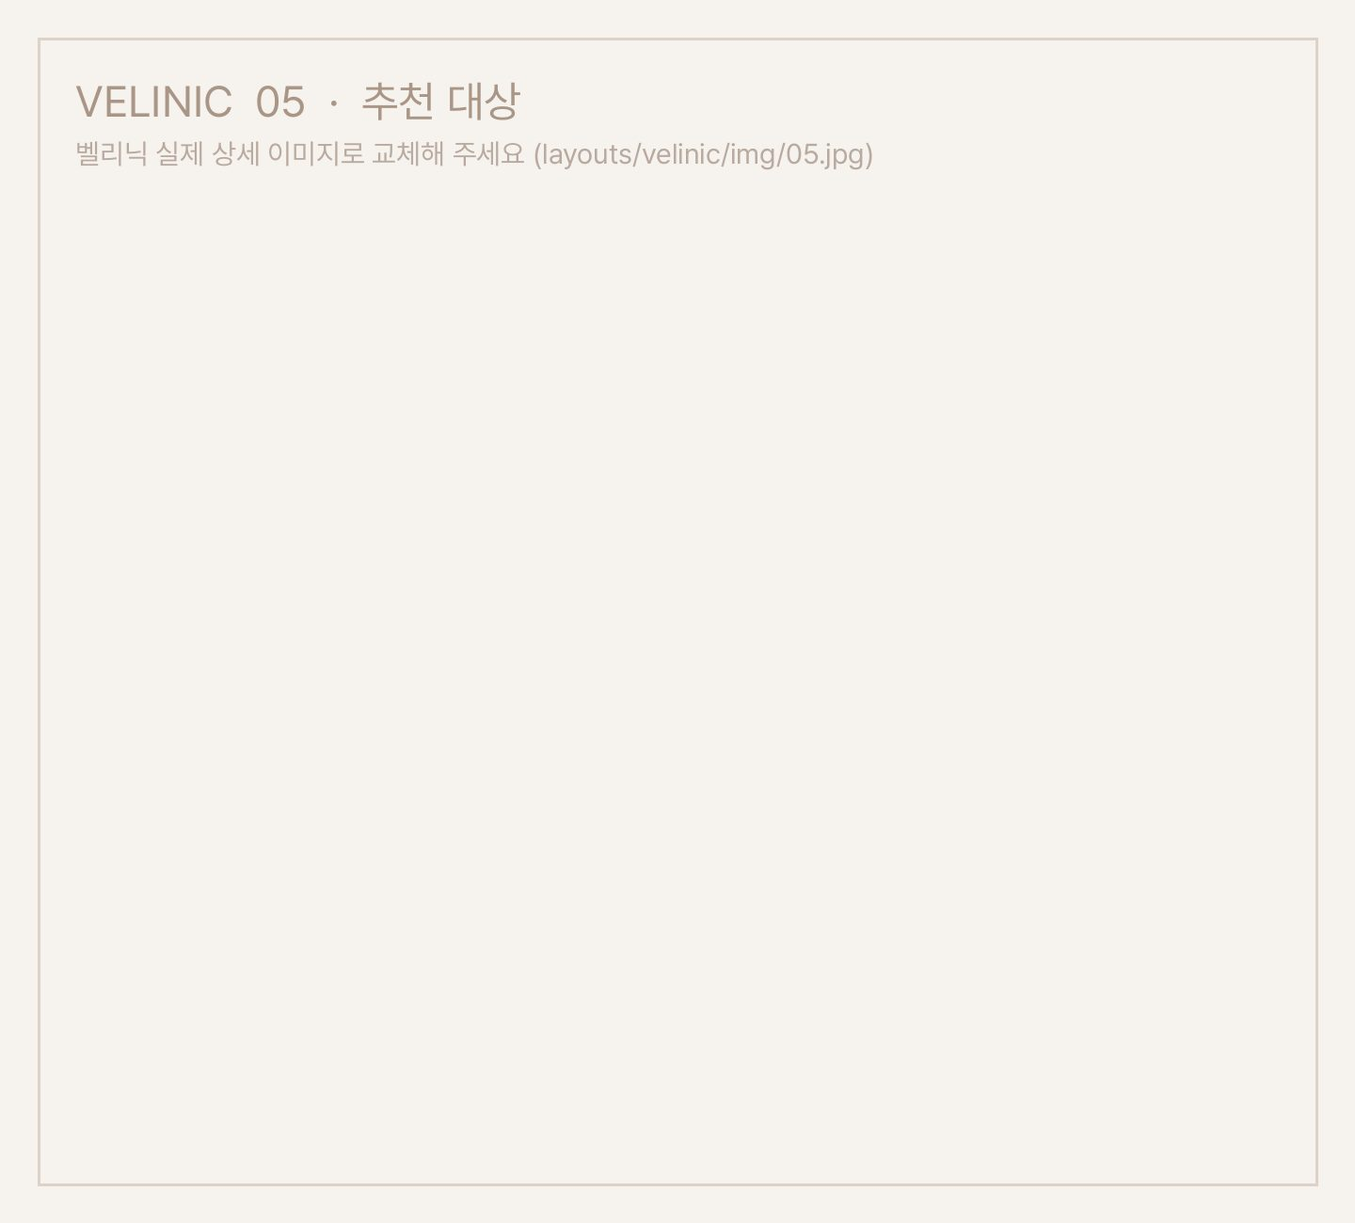
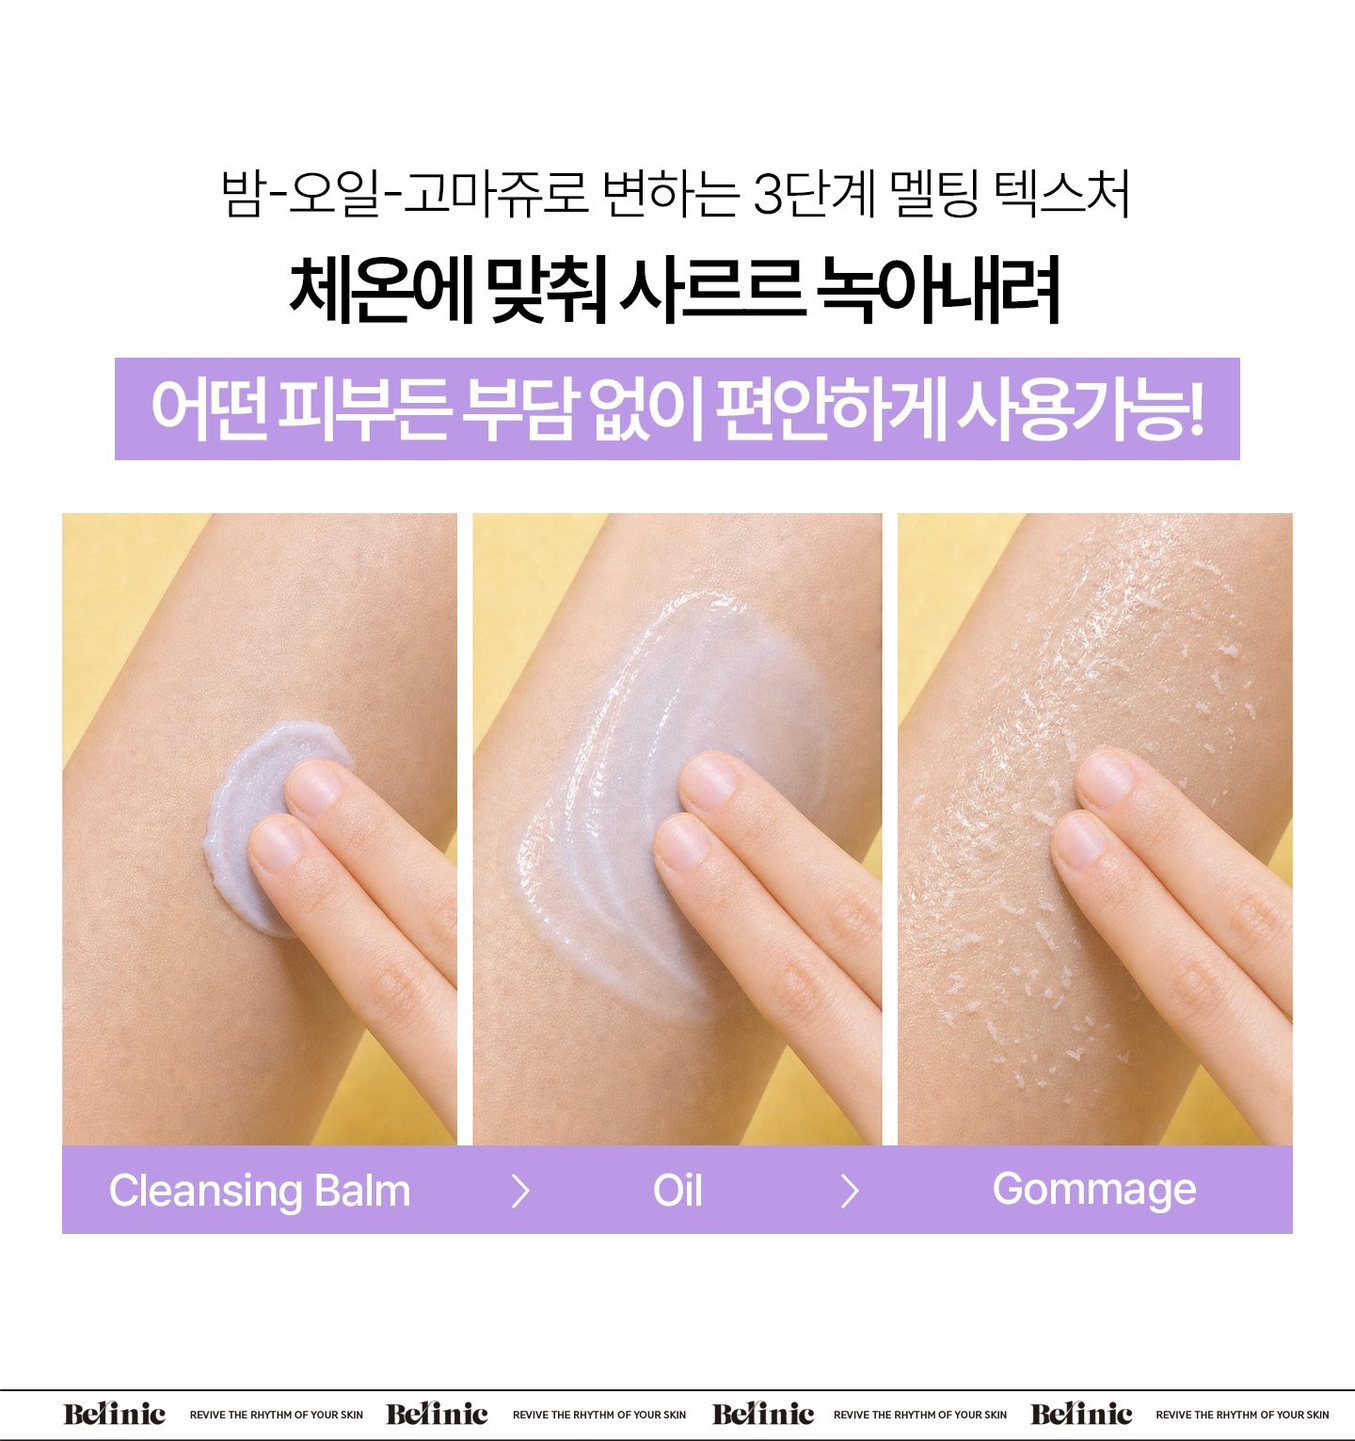
Add files via upload

diff --git a/js/generator.js b/js/generator.js
@@ -94,6 +94,7 @@
     balm: { usage: ['마른 손과 얼굴에 적당량을 덜어 줍니다.', '얼굴 전체에 부드럽게 롤링하며 메이크업과 노폐물을 녹여냅니다.', '물을 소량 묻혀 유화시킨 뒤 미온수로 깨끗하게 헹궈냅니다.'], tip: 'TIP. 동봉된 스파츌러로 덜어 사용하면 위생적으로 사용할 수 있습니다.', texture: '부드럽게 녹아드는 멜팅 밤', steps: ['밤', '오일', '에멀전'], method: '단단한 밤 제형이 피부 온도에 사르르 녹아 오일로 변하며, 물과 만나면 우유처럼 유화되어 깔끔하게 헹궈지는 클렌저입니다.', cats: ['clean', 'nourish', 'moist'], care: '클렌징 케어' },
     cleanoil: { usage: ['마른 손과 얼굴에 2~3펌프 덜어 줍니다.', '얼굴 전체에 부드럽게 롤링하며 메이크업을 녹여냅니다.', '물을 소량 묻혀 유화시킨 뒤 미온수로 헹궈냅니다.'], tip: '', texture: '가볍게 퍼지는 오일', steps: ['오일', '에멀전', '헹굼'], method: '가벼운 오일이 메이크업과 노폐물을 녹여내고, 물과 만나 유화되어 깔끔하게 헹궈지는 클렌저입니다.', cats: ['clean', 'nourish', 'moist'], care: '클렌징 케어' },
     foam: { usage: ['손에 적당량을 덜어 물과 함께 충분히 거품을 냅니다.', '얼굴 전체를 부드럽게 마사지하듯 세안합니다.', '미온수로 깨끗하게 헹궈냅니다.'], tip: '', texture: '쫀쫀한 거품', steps: ['크림', '거품', '헹굼'], method: '풍성한 거품이 피부 노폐물을 부드럽게 감싸 씻어내는 클렌저입니다.', cats: ['clean', 'moist', 'soothe'], care: '클렌징 케어' },
+    meltgommage: { usage: ['클렌징까지 마친 뒤, 본품을 적당량 덜어 물기 없는 얼굴에 펴 바릅니다.', '밤에서 오일로, 이어서 고마쥬로 변하는 동안 피부결을 따라 부드럽게 롤링합니다.', '충분히 롤링한 뒤 약간의 물을 더해 한 번 더 롤링하고, 미온수로 깨끗이 헹궈냅니다.'], tip: 'TIP. 주 1~2회 사용을 권장합니다.', texture: '체온에 사르르 녹는 멜팅 밤', steps: ['밤', '오일', '고마쥬'], method: '프랑스어로 \'지우다, 문질러 없애다\'라는 뜻에서 유래한 말로, 피부에 롤링하는 과정에서 묵은 각질을 부드럽게 정돈하는 스킨케어 방식입니다.', cats: ['smooth', 'clean', 'nourish'], care: '고마쥬 케어' },
     gommage: { usage: ['세안 후 물기를 닦은 얼굴에 적당량을 펴 바릅니다.', '1~2분 후 가볍게 문지르면 각질이 부드럽게 밀려납니다.', '미온수로 깨끗하게 헹궈냅니다.'], tip: 'TIP. 주 1~2회 사용을 권장합니다.', texture: '부드러운 젤', steps: ['젤', '롤링', '헹굼'], method: '피부에 펴 바른 뒤 문지르면 묵은 각질이 부드럽게 밀려나는 방식으로, 피부결을 매끄럽게 정돈합니다.', cats: ['smooth', 'clean', 'moist'], care: '고마쥬 케어' },
     pad: { usage: ['세안 후 패드 한 장을 꺼냅니다.', '피부결을 따라 얼굴 전체를 부드럽게 닦아냅니다.', '남은 에센스를 가볍게 두드려 흡수시킵니다.'], tip: 'TIP. 건조한 부위에 3~5분간 올려 두면 마스크처럼 사용할 수 있습니다.', texture: '에센스를 머금은 패드', steps: ['패드', '에센스', '마무리'], method: '에센스를 듬뿍 머금은 패드로 피부결을 정돈하고 촉촉함을 더하는 스킨케어입니다.', cats: ['smooth', 'moist', 'soothe'], care: '패드 케어' },
     sheet: { usage: ['세안 후 토너로 피부결을 정돈합니다.', '마스크 시트를 얼굴에 밀착시킵니다.', '15~20분 후 떼어내고 남은 에센스를 가볍게 두드려 흡수시킵니다.'], tip: '', texture: '촉촉한 에센스', steps: ['시트', '에센스', '마무리'], method: '에센스를 머금은 시트가 피부에 밀착되어 촉촉함을 채워주는 마스크입니다.', cats: ['moist', 'soothe', 'glow'], care: '마스크 케어' },
@@ -111,6 +112,7 @@
     { kw: ['클렌징 밤', '클렌징밤'], ko: '클렌징 밤', en: 'Cleansing Balm', short: 'Balm', kind: 'balm' },
     { kw: ['클렌징 오일', '클렌징오일'], ko: '클렌징 오일', en: 'Cleansing Oil', short: 'Oil', kind: 'cleanoil' },
     { kw: ['클렌징 폼', '클렌징폼', '폼 클렌저', '폼클렌저', '클렌저', '클렌징'], ko: '클렌징 폼', en: 'Cleansing Foam', short: 'Foam', kind: 'foam' },
+    { kw: ['멜팅 봄므', '멜팅봄므', '멜팅 밤', '멜팅밤', '고마쥬 밤', '고마쥬밤', '고마쥬 봄므'], ko: '멜팅 고마쥬 밤', en: 'Gommage Melting Baume', short: 'Baume', kind: 'meltgommage' },
     { kw: ['고마쥬'], ko: '고마쥬', en: 'Gommage', short: 'Gommage', kind: 'gommage' },
     { kw: ['필링 젤', '필링젤', '필링'], ko: '필링 젤', en: 'Peeling Gel', short: 'Gel', kind: 'gommage' },
     { kw: ['토너 패드', '토너패드', '패드'], ko: '토너 패드', en: 'Toner Pad', short: 'Pad', kind: 'pad' },
@@ -137,7 +139,7 @@
   }
 
   /* ---------- 영문 제품명 ---------- */
-  const EN = { '프리미엄': 'Premium', '브이-핏': 'V-Fit', '브이핏': 'V-Fit', '모델링': 'Modeling', '마스크': 'Mask', '팩': 'Pack', '크림': 'Cream', '레스큐': 'Rescue', '수분': 'Hydrating', '앰플': 'Ampoule', '세럼': 'Serum', '토너': 'Toner', '패드': 'Pad', '클렌징': 'Cleansing', '밤': 'Balm', '오일': 'Oil', '폼': 'Foam', '젤': 'Gel', '데일리': 'Daily', '시카': 'Cica', '콜라겐': 'Collagen', '히알루론': 'Hyaluronic', '펩타이드': 'Peptide', '비타': 'Vita', '골드': 'Gold', '블랙': 'Black', '아쿠아': 'Aqua', '에스테틱': 'Esthetic', '프로페셔널': 'Professional', '래디언스': 'Radiance', '솔루션': 'Solution', '쿨링': 'Cooling', '하이드레이팅': 'Hydrating', '퓨어': 'Pure', '마일드': 'Mild', '딥': 'Deep', '고마쥬': 'Gommage', '슬리핑': 'Sleeping', '워시오프': 'Wash-off', '시트': 'Sheet', '미스트': 'Mist', '에센스': 'Essence', '로션': 'Lotion', '스킨': 'Skin', '글로우': 'Glow', '모이스처': 'Moisture', '모이스트': 'Moist', '릴리프': 'Relief', '카밍': 'Calming', '밸런싱': 'Balancing', '캡슐': 'Capsule', '병풀': 'Centella', '어성초': 'Houttuynia', '녹차': 'Green Tea', '쑥': 'Mugwort', '율무': 'Coix', '세라마이드': 'Ceramide', '판테놀': 'Panthenol', '알로에': 'Aloe', '티트리': 'Tea Tree', '쌀': 'Rice', '라이스': 'Rice', '꿀': 'Honey', '허니': 'Honey', '프로폴리스': 'Propolis', '레티놀': 'Retinol', '비타민': 'Vitamin', '멀티': 'Multi', '인텐시브': 'Intensive', '부스팅': 'Boosting', '스파': 'Spa', '머드': 'Mud', '클레이': 'Clay', '핑크': 'Pink', '블루': 'Blue', '그린': 'Green', '로즈': 'Rose', '라벤더': 'Lavender', '캐모마일': 'Chamomile', '시그니처': 'Signature', '오리지널': 'Original', '플러스': 'Plus', '더블': 'Double', '트리플': 'Triple', '젤리': 'Jelly', '워터': 'Water', '버블': 'Bubble', '필링': 'Peeling', '스크럽': 'Scrub', '토닝': 'Toning', '아이': 'Eye', '바디': 'Body', '핸드': 'Hand', '립': 'Lip', '소프트': 'Soft', '스무스': 'Smooth', '엑스트라': 'Extra', '울트라': 'Ultra', '슈퍼': 'Super', '하이드로': 'Hydro', '에너지': 'Energy', '바이탈': 'Vital', '쿨': 'Cool', '젠틀': 'Gentle', '클리어': 'Clear', '클린': 'Clean', '파우더': 'Powder', '엑토인': 'Ectoin', '마데카': 'Madeca', '마데카소사이드': 'Madecassoside', '나이아신아마이드': 'Niacinamide', '스쿠알란': 'Squalane', '글루타치온': 'Glutathione', '바쿠치올': 'Bakuchiol', '인삼': 'Ginseng', '홍삼': 'Red Ginseng', '진주': 'Pearl', '카카오': 'Cacao', '클로렐라': 'Chlorella', '스피루리나': 'Spirulina', '감초': 'Licorice', '작약': 'Peony', '연꽃': 'Lotus', '동백': 'Camellia', '석류': 'Pomegranate', '레몬': 'Lemon', '자몽': 'Grapefruit', '오트': 'Oat', '귀리': 'Oat', '보습': 'Moisture', '탄력': 'Firming', '영양': 'Nourishing', '리치': 'Rich', '라이트': 'Light', '포어': 'Pore', '샷': 'Shot', '포뮬러': 'Formula', '에디션': 'Edition', '세트': 'Set', '키트': 'Kit', '리필': 'Refill', '대용량': 'Large' };
+  const EN = { '프리미엄': 'Premium', '브이-핏': 'V-Fit', '브이핏': 'V-Fit', '모델링': 'Modeling', '마스크': 'Mask', '팩': 'Pack', '크림': 'Cream', '레스큐': 'Rescue', '수분': 'Hydrating', '앰플': 'Ampoule', '세럼': 'Serum', '토너': 'Toner', '패드': 'Pad', '클렌징': 'Cleansing', '밤': 'Balm', '오일': 'Oil', '폼': 'Foam', '젤': 'Gel', '데일리': 'Daily', '시카': 'Cica', '콜라겐': 'Collagen', '히알루론': 'Hyaluronic', '펩타이드': 'Peptide', '비타': 'Vita', '골드': 'Gold', '블랙': 'Black', '아쿠아': 'Aqua', '에스테틱': 'Esthetic', '프로페셔널': 'Professional', '래디언스': 'Radiance', '솔루션': 'Solution', '쿨링': 'Cooling', '하이드레이팅': 'Hydrating', '퓨어': 'Pure', '마일드': 'Mild', '딥': 'Deep', '고마쥬': 'Gommage', '멜팅': 'Melting', '봄므': 'Baume', '슬리핑': 'Sleeping', '워시오프': 'Wash-off', '시트': 'Sheet', '미스트': 'Mist', '에센스': 'Essence', '로션': 'Lotion', '스킨': 'Skin', '글로우': 'Glow', '모이스처': 'Moisture', '모이스트': 'Moist', '릴리프': 'Relief', '카밍': 'Calming', '밸런싱': 'Balancing', '캡슐': 'Capsule', '병풀': 'Centella', '어성초': 'Houttuynia', '녹차': 'Green Tea', '쑥': 'Mugwort', '율무': 'Coix', '세라마이드': 'Ceramide', '판테놀': 'Panthenol', '알로에': 'Aloe', '티트리': 'Tea Tree', '쌀': 'Rice', '라이스': 'Rice', '꿀': 'Honey', '허니': 'Honey', '프로폴리스': 'Propolis', '레티놀': 'Retinol', '비타민': 'Vitamin', '멀티': 'Multi', '인텐시브': 'Intensive', '부스팅': 'Boosting', '스파': 'Spa', '머드': 'Mud', '클레이': 'Clay', '핑크': 'Pink', '블루': 'Blue', '그린': 'Green', '로즈': 'Rose', '라벤더': 'Lavender', '캐모마일': 'Chamomile', '시그니처': 'Signature', '오리지널': 'Original', '플러스': 'Plus', '더블': 'Double', '트리플': 'Triple', '젤리': 'Jelly', '워터': 'Water', '버블': 'Bubble', '필링': 'Peeling', '스크럽': 'Scrub', '토닝': 'Toning', '아이': 'Eye', '바디': 'Body', '핸드': 'Hand', '립': 'Lip', '소프트': 'Soft', '스무스': 'Smooth', '엑스트라': 'Extra', '울트라': 'Ultra', '슈퍼': 'Super', '하이드로': 'Hydro', '에너지': 'Energy', '바이탈': 'Vital', '쿨': 'Cool', '젠틀': 'Gentle', '클리어': 'Clear', '클린': 'Clean', '파우더': 'Powder', '엑토인': 'Ectoin', '마데카': 'Madeca', '마데카소사이드': 'Madecassoside', '나이아신아마이드': 'Niacinamide', '스쿠알란': 'Squalane', '글루타치온': 'Glutathione', '바쿠치올': 'Bakuchiol', '인삼': 'Ginseng', '홍삼': 'Red Ginseng', '진주': 'Pearl', '카카오': 'Cacao', '클로렐라': 'Chlorella', '스피루리나': 'Spirulina', '감초': 'Licorice', '작약': 'Peony', '연꽃': 'Lotus', '동백': 'Camellia', '석류': 'Pomegranate', '레몬': 'Lemon', '자몽': 'Grapefruit', '오트': 'Oat', '귀리': 'Oat', '보습': 'Moisture', '탄력': 'Firming', '영양': 'Nourishing', '리치': 'Rich', '라이트': 'Light', '포어': 'Pore', '샷': 'Shot', '포뮬러': 'Formula', '에디션': 'Edition', '세트': 'Set', '키트': 'Kit', '리필': 'Refill', '대용량': 'Large' };
   function englishName(ko) {
     const toks = String(ko || '').trim().split(/\s+/).filter(Boolean);
     if (!toks.length) return '';

diff --git a/layouts/velinic/layout.js b/layouts/velinic/layout.js
@@ -1,4 +1,4 @@
-/* 벨리닉 상세페이지 레이아웃 — 현재는 임시 배경. img 폴더의 이미지를 실제 상세 이미지로 교체하고, 사이트의 [레이아웃 편집]으로 위치를 맞춘 뒤 내보낸 파일로 이 파일을 교체하세요. */
+/* 벨리닉 상세페이지 레이아웃 — 고마쥬 멜팅 봄므 상세 이미지 기준 (좌표 단위: 1440px 폭). GIF는 문구가 모두 나온 마지막 장면을 JPG로 변환. */
 window.LAYOUTS = window.LAYOUTS || {};
 window.LAYOUTS['velinic'] = {
  "base": "layouts/velinic/",
@@ -6,47 +6,43 @@ window.LAYOUTS['velinic'] = {
  "images": [
   {
    "src": "img/01.jpg",
-   "h": 1800
+   "h": 9948
   },
   {
    "src": "img/02.jpg",
-   "h": 1400
+   "h": 1832
   },
   {
    "src": "img/03.jpg",
-   "h": 2400
+   "h": 1918
   },
   {
    "src": "img/04.jpg",
-   "h": 1400
+   "h": 1924
   },
   {
    "src": "img/05.jpg",
-   "h": 1300
+   "h": 1531
   },
   {
    "src": "img/06.jpg",
-   "h": 2600
+   "h": 1957
   },
   {
    "src": "img/07.jpg",
-   "h": 1400
+   "h": 10302
   },
   {
    "src": "img/08.jpg",
-   "h": 1200
+   "h": 6220
   },
   {
    "src": "img/09.jpg",
-   "h": 1200
+   "h": 1966
   },
   {
    "src": "img/10.jpg",
-   "h": 1900
-  },
-  {
-   "src": "img/11.jpg",
-   "h": 1600
+   "h": 2314
   }
  ],
  "blocks": [
@@ -54,90 +50,59 @@ window.LAYOUTS['velinic'] = {
    "id": "intro",
    "type": "intro",
    "x": 144,
-   "y": 700,
+   "y": 250,
    "w": 1152
   },
   {
    "id": "meth",
    "type": "method",
    "x": 144,
-   "y": 2100,
+   "y": 11248,
    "w": 1152
   },
   {
    "id": "diffH",
    "type": "diffHeader",
    "x": 144,
-   "y": 3350,
+   "y": 11960,
    "w": 1152
   },
   {
    "id": "f0",
    "type": "feature",
    "i": 0,
-   "x": 144,
-   "y": 3700,
-   "w": 1152
+   "x": 700,
+   "y": 14398,
+   "w": 660
   },
   {
    "id": "f1",
    "type": "feature",
    "i": 1,
-   "x": 144,
-   "y": 4250,
-   "w": 1152
+   "x": 700,
+   "y": 14698,
+   "w": 660
   },
   {
    "id": "f2",
    "type": "feature",
    "i": 2,
-   "x": 144,
-   "y": 4800,
-   "w": 1152
+   "x": 700,
+   "y": 15078,
+   "w": 660
   },
   {
    "id": "tex",
    "type": "texture",
    "x": 144,
-   "y": 5900,
+   "y": 15762,
    "w": 1152
-  },
-  {
-   "id": "recH",
-   "type": "recHeader",
-   "x": 144,
-   "y": 7150,
-   "w": 1152
-  },
-  {
-   "id": "r0",
-   "type": "rec",
-   "i": 0,
-   "x": 100,
-   "y": 7450,
-   "w": 400
-  },
-  {
-   "id": "r1",
-   "type": "rec",
-   "i": 1,
-   "x": 520,
-   "y": 7450,
-   "w": 400
-  },
-  {
-   "id": "r2",
-   "type": "rec",
-   "i": 2,
-   "x": 940,
-   "y": 7450,
-   "w": 400
   },
   {
    "id": "ingH",
    "type": "ingHeader",
    "x": 144,
-   "y": 8450,
+   "y": 17373,
    "w": 1152
   },
   {
@@ -145,7 +110,7 @@ window.LAYOUTS['velinic'] = {
    "type": "ing",
    "i": 0,
    "x": 144,
-   "y": 8850,
+   "y": 20010,
    "w": 1152
   },
   {
@@ -153,7 +118,7 @@ window.LAYOUTS['velinic'] = {
    "type": "ing",
    "i": 1,
    "x": 144,
-   "y": 9450,
+   "y": 25140,
    "w": 1152
   },
   {
@@ -161,49 +126,73 @@ window.LAYOUTS['velinic'] = {
    "type": "ing",
    "i": 2,
    "x": 144,
-   "y": 10050,
+   "y": 27970,
    "w": 1152
   },
   {
    "id": "ingN",
    "type": "ingNote",
    "x": 144,
-   "y": 10650,
-   "w": 1152
-  },
-  {
-   "id": "clin",
-   "type": "clinical",
-   "x": 144,
-   "y": 11250,
-   "w": 1152
-  },
-  {
-   "id": "irr",
-   "type": "irritation",
-   "x": 144,
-   "y": 12600,
+   "y": 29230,
    "w": 1152
   },
   {
    "id": "sum",
    "type": "summary",
    "x": 144,
-   "y": 13800,
+   "y": 32412,
    "w": 1152
+  },
+  {
+   "id": "irr",
+   "type": "irritation",
+   "x": 144,
+   "y": 34362,
+   "w": 1152
+  },
+  {
+   "id": "recH",
+   "type": "recHeader",
+   "x": 700,
+   "y": 36052,
+   "w": 660
+  },
+  {
+   "id": "r0",
+   "type": "rec",
+   "i": 0,
+   "x": 700,
+   "y": 36372,
+   "w": 660
+  },
+  {
+   "id": "r1",
+   "type": "rec",
+   "i": 1,
+   "x": 700,
+   "y": 36672,
+   "w": 660
+  },
+  {
+   "id": "r2",
+   "type": "rec",
+   "i": 2,
+   "x": 700,
+   "y": 36952,
+   "w": 660
   },
   {
    "id": "how",
    "type": "howto",
    "x": 144,
-   "y": 15000,
+   "y": 38068,
    "w": 1152
   },
   {
    "id": "info",
    "type": "info",
    "x": 144,
-   "y": 16800,
+   "y": 39748,
    "w": 1152
   }
  ]

diff --git a/js/ingredients.js b/js/ingredients.js
@@ -170,6 +170,14 @@
 
   const BASE = /(정제수|^물$|글라이콜$|다이올$|에틸헥실글리세린|카보머|트로메타민|이디티에이|향료|페녹시에탄올|검$|데하이드로아세틱애씨드|마그네슘옥사이드|파이로포스페이트|설페이트$|벤조에이트|솔베이트|시트릭애씨드|소듐하이드록사이드|포타슘하이드록사이드|파라벤|메티콘|실록세인|아크릴레이트|폴리소르베이트|피이지|PEG|스테아레이트|세테아릴|세틸알코올|스테아릴알코올|글리세릴|소르비탄|트라이글리세라이드|카프릴|이소|하이드로제네이티드|알코올$|에탄올|실리카|티타늄디옥사이드|징크옥사이드|마이카|탤크|다이소듐|트라이에탄올아민|코폴리머|크로스폴리머|암모늄|클로라이드$|^CI\s?\d+|색소|레시틴|헥실|프로필|부틸|메틸|에틸|다이메틸|나일론|셀룰로오스|글루코사이드$|올레핀|폴리|라우레스|라우릴|코카미도|베타인$)/;
 
+  // ---- 벨리닉 시그니처 원료 (2026.11 추가)
+  E('소듐디엔에이', 'Sodium DNA', 'barrier', '식물에서 얻은 PDRN', '식물에서 얻은 PDRN 성분이 피부를 건강하고 탄탄한 컨디션으로 가꾸어 줍니다.', 9, ['PDRN', '피디알엔', '식물성PDRN', 'HAYANPDRN', '하얀PDRN', '폴리디옥시리보뉴클레오타이드']);
+  E('쌀배아추출물', 'Oryza Sativa (Rice) Germ Extract', 'nourish', '쌀눈에서 얻은 영양감', '쌀눈에서 얻은 성분이 피부에 영양감과 촉촉함을 더해 줍니다.', 7, ['쌀눈추출물', '쌀겨추출물', '미강추출물']);
+  E('니코틴아마이드모노뉴클레오타이드', 'Nicotinamide Mononucleotide', 'glow', '비타민 B3 유도체, NMN', '비타민 B3 유도체인 NMN이 외부 환경으로 지친 피부에 활력 있는 컨디션을 더해 줍니다.', 9, ['NMN', '엔엠엔']);
+  E('포도줄기세포엑소좀', 'Vitis Vinifera (Grape) Stem Cell Exosomes', 'glow', '포도에서 얻은 식물 엑소좀', '포도에서 얻은 식물 엑소좀 성분이 피부에 생기 있고 건강한 컨디션을 더해 줍니다.', 9, ['포도엑소좀', '포도유래엑소좀', '포도줄기세포배양액', '포도줄기세포배양추출물', '포도캘러스배양추출물', '피토테라좀그레이프', 'Phytotherasome', 'PhytotherasomeGrape']);
+  E('셀룰로오스', 'Cellulose', 'smooth', '부드러운 셀룰로오스 입자', '대나무에서 얻은 셀룰로오스 입자가 피부결을 매끄럽게 정돈해 줍니다.', 6, ['셀룰로오스비즈', '셀룰로오스파우더', '셀룰로오스입자']);
+  E('포도추출물', 'Vitis Vinifera (Grape) Fruit Extract', 'glow', '포도에서 얻은 생기', '포도에서 얻은 성분이 피부에 생기와 촉촉함을 더해 줍니다.', 6, ['포도열매추출물']);
+
   // 기능성 고시 원료 (기능성 심사 전이면 관련 효능 표현 금지)
   const FUNCTIONAL = [
     { re: /나이아신아마이드/, type: '미백' }, { re: /알부틴/, type: '미백' }, { re: /아스코빌글루코사이드|에칠아스코빌에텔|3-O-에틸아스코빅애씨드|마그네슘아스코빌포스페이트|유용성감초추출물|알파-비사보롤/, type: '미백' },

diff --git a/js/config.js b/js/config.js
@@ -29,7 +29,7 @@ window.CONFIG = {
     },
     velinic: {
       id: 'velinic', name: '벨리닉', en: 'VELINIC', accent: '#8A6A5C',
-      desc: '홈케어 라인 · 레이아웃 이미지 교체 필요',
+      desc: '홈케어 라인 · 고마쥬 멜팅 봄므 레이아웃 적용',
       template: 'templates/velinic_template.docx',
       templateName: '벨리닉_상세페이지_입력템플릿_간편.docx',
       lineDefault: 'VELINIC',

diff --git a/README.md b/README.md
@@ -40,7 +40,7 @@ js/compliance.js           화장품법 표현 검사 규칙
 js/generator.js            문안 생성 엔진 (제품유형별 사용법·텍스처 포함)
 js/files.js                Word 읽기 / Excel 만들기
 layouts/drsthe/            닥터에스떼 상세 이미지 + 문안 위치(layout.js)
-layouts/velinic/           벨리닉 상세 이미지 + 문안 위치 (현재 임시 이미지)
+layouts/velinic/           벨리닉 상세 이미지(고마쥬 멜팅 봄므) + 문안 위치
 templates/                 간편 입력템플릿(.docx)
 tools/password.html        비밀번호 해시 만들기
 ```
@@ -51,16 +51,13 @@ tools/password.html        비밀번호 해시 만들기
 2. 새 비밀번호를 입력 → 해시 복사
 3. GitHub에서 `js/config.js` 열기 → 연필(Edit) → `passwordHash: '...'` 값을 붙여넣기 → Commit
 
-## 5. 벨리닉 상세 이미지 넣기
+## 5. 상세 이미지(레이아웃) 교체하기
 
-현재 벨리닉은 임시 배경입니다. 실제 상세 이미지를 받으면:
+벨리닉은 '고마쥬 멜팅 봄므' 상세 이미지 10장(GIF는 문구가 모두 나온 마지막 장면을 JPG로 변환)이 적용되어 있습니다. 다른 상세 이미지로 바꾸려면:
 
-1. 이미지를 폭 1440px로 맞춰 `layouts/velinic/img/01.jpg, 02.jpg …` 순서로 교체(업로드)합니다.
-2. `layouts/velinic/layout.js`의 `images` 목록에서 각 이미지의 높이(`h`, px)를 실제 높이로 고칩니다. 장수가 다르면 항목을 추가하거나 삭제합니다.
-3. 사이트에서 벨리닉 문안을 하나 생성 → [위치 조정]을 켜고 박스를 상세 이미지의 문안 위치로 끌어 옮깁니다.
-4. 오른쪽 아래 [현재 위치를 레이아웃 파일로 내보내기] → 내려받은 `layout.js`로 `layouts/velinic/layout.js`를 교체합니다.
-
-닥터에스떼도 같은 방법으로 상세 이미지나 문안 위치를 바꿀 수 있습니다.
+1. 이미지를 폭 1440px로 맞춰 `layouts/<브랜드>/img/01.jpg, 02.jpg …` 순서로 업로드합니다.
+2. `layout.js`의 images 목록에 각 이미지 높이(h)를 적습니다.
+3. 사이트에서 문안을 생성한 뒤 [레이아웃 편집]으로 박스 위치를 맞추고, 내보낸 layout.js로 교체합니다.
 
 ## 6. 성분 · 표현 규칙 추가
 
